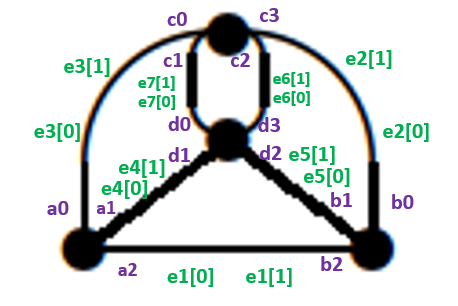
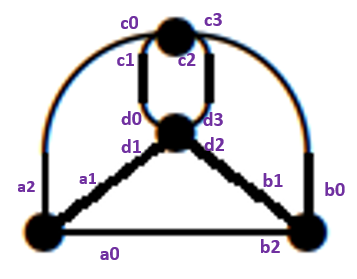
Fix planar graph issue, vertices must number CCW

Changed region(s): [[0.0308, 0.0287, 0.986, 0.9462]]

diff --git a/examples/calculate_yamada_polynomials/automatic_demo.py b/examples/calculate_yamada_polynomials/automatic_demo.py
@@ -3,9 +3,20 @@ from yamada.projection import SpatialGraph
 
 np.random.seed(0)
 
-# sg1 = SpatialGraph(nodes=['a', 'b', 'c', 'd'],
-#                    node_positions=np.array([[0, 0.5, 0], [1, 0.5, 1], [1, 0, 0], [0, 0, 1]]),
-#                    edges=[('a', 'b'), ('b', 'c'), ('c', 'd'), ('d', 'a')])
+sg1 = SpatialGraph(nodes=['a', 'b', 'c', 'd'],
+                   node_positions=np.array([[0, 0.5, 0], [1, 0.5, 1], [1, 0, 0], [0, 0, 1]]),
+                   edges=[('a', 'b'), ('b', 'c'), ('c', 'd'), ('d', 'a')])
+sg1.project()
+sg1.plot()
+sgd1 = sg1.create_spatial_graph_diagram()
+yamada_polynomial_infinity_symbol = sgd1.yamada_polynomial()
+print("Infinity Symbol Yamada Polynomial:", yamada_polynomial_infinity_symbol)
+
+
+# sg1 = SpatialGraph(nodes=['a', 'b', 'c', 'd', 'e', 'f'],
+#                    node_positions=np.array([[0, 0.5, 0], [1, 0, 1], [2, 0.5, 0], [3, 0, 1], [1, 1, 0], [-1, 0, 1]]),
+#                    edges=[('a', 'b'), ('b', 'c'), ('c', 'd'), ('d', 'e'), ('e', 'f'), ('f', 'a')])
+#
 # sg1.project()
 # sg1.plot()
 # sgd1 = sg1.create_spatial_graph_diagram()
@@ -13,23 +24,19 @@ np.random.seed(0)
 # print("Infinity Symbol Yamada Polynomial:", yamada_polynomial_infinity_symbol)
 
 
-
-sg1 = SpatialGraph(nodes=['a', 'b', 'c', 'd', 'e', 'f'],
-                   node_positions=np.array([[0, 0.5, 0], [1, 0, 1], [2, 0.5, 0], [3, 0, 1], [1, 1, 0], [-1, 0, 1]]),
-                   edges=[('a', 'b'), ('b', 'c'), ('c', 'd'), ('d', 'e'), ('e', 'f'), ('f', 'a')])
-
-# TODO Question: Why does adding edge ('a', 'e') cause the graph to be non-planar?
-
-sg1.project()
-
-sg1.plot()
-
-
-sgd1 = sg1.create_spatial_graph_diagram()
-
-yamada_polynomial_infinity_symbol = sgd1.yamada_polynomial()
-
-print("Infinity Symbol Yamada Polynomial:", yamada_polynomial_infinity_symbol)
-
-
-
+# g1 = SpatialGraph(nodes=['a', 'b', 'c', 'd', 'e', 'f'],
+#                    node_positions=np.array([[0, 0.5, 0], [1, 0, 1], [2, 0.5, 0], [3, 0, 1], [1, 1, 0], [-1, 0, 1]]),
+#                    edges=[('a', 'b'), ('b', 'c'), ('c', 'd'), ('d', 'e'), ('e', 'f'), ('f', 'a')])
+#
+# # TODO Question: Why does adding edge ('a', 'e') cause the graph to be non-planar?
+#
+# sg1.project()
+#
+# sg1.plot()
+#
+#
+# sgd1 = sg1.create_spatial_graph_diagram()
+#
+# yamada_polynomial_infinity_symbol = sgd1.yamada_polynomial()
+#
+# print("Infinity Symbol Yamada Polynomial:", yamada_polynomial_infinity_symbol)
